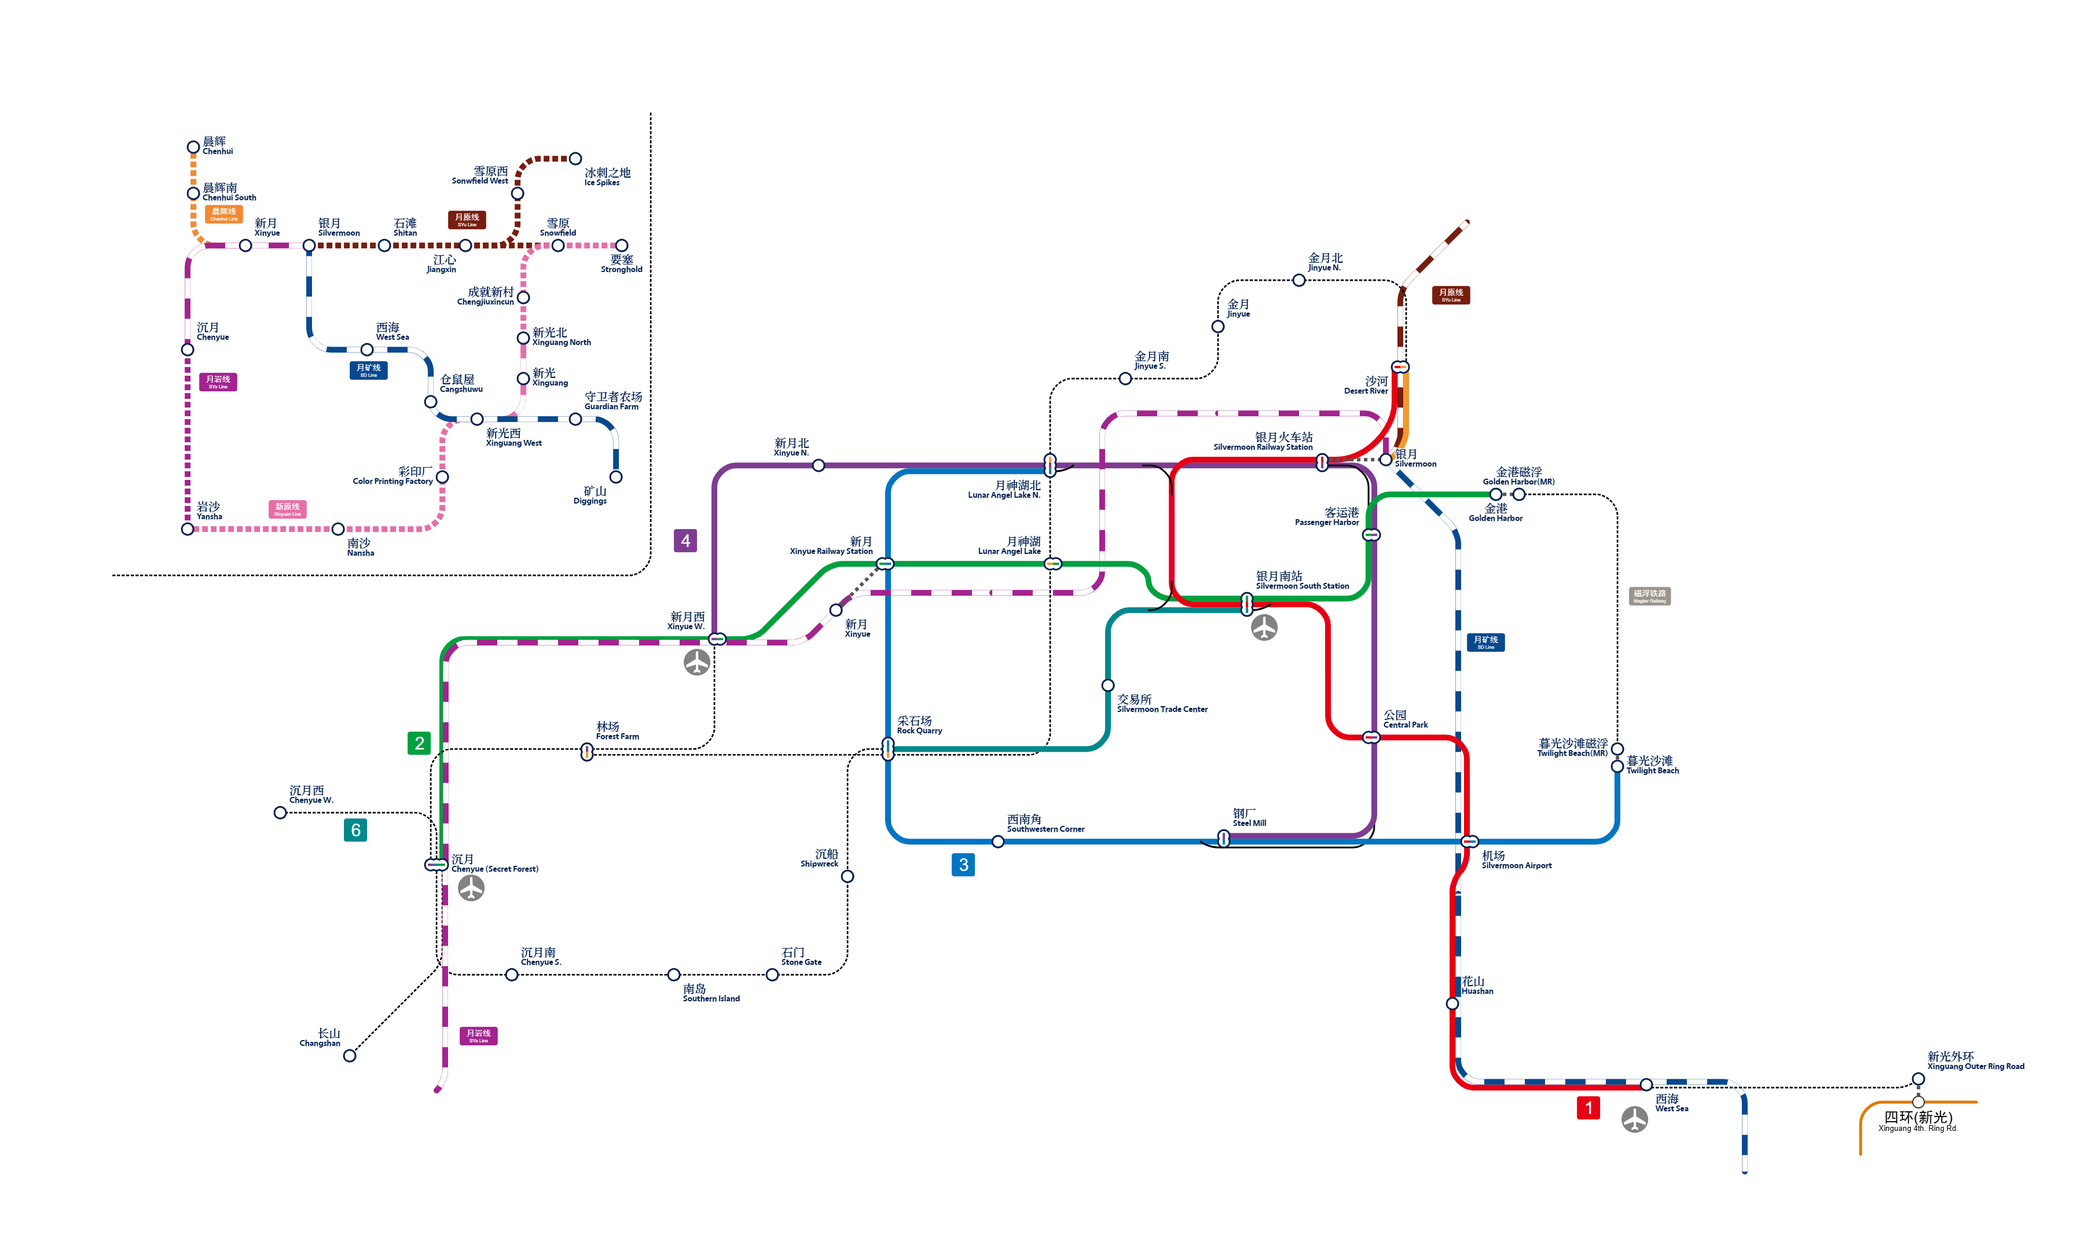
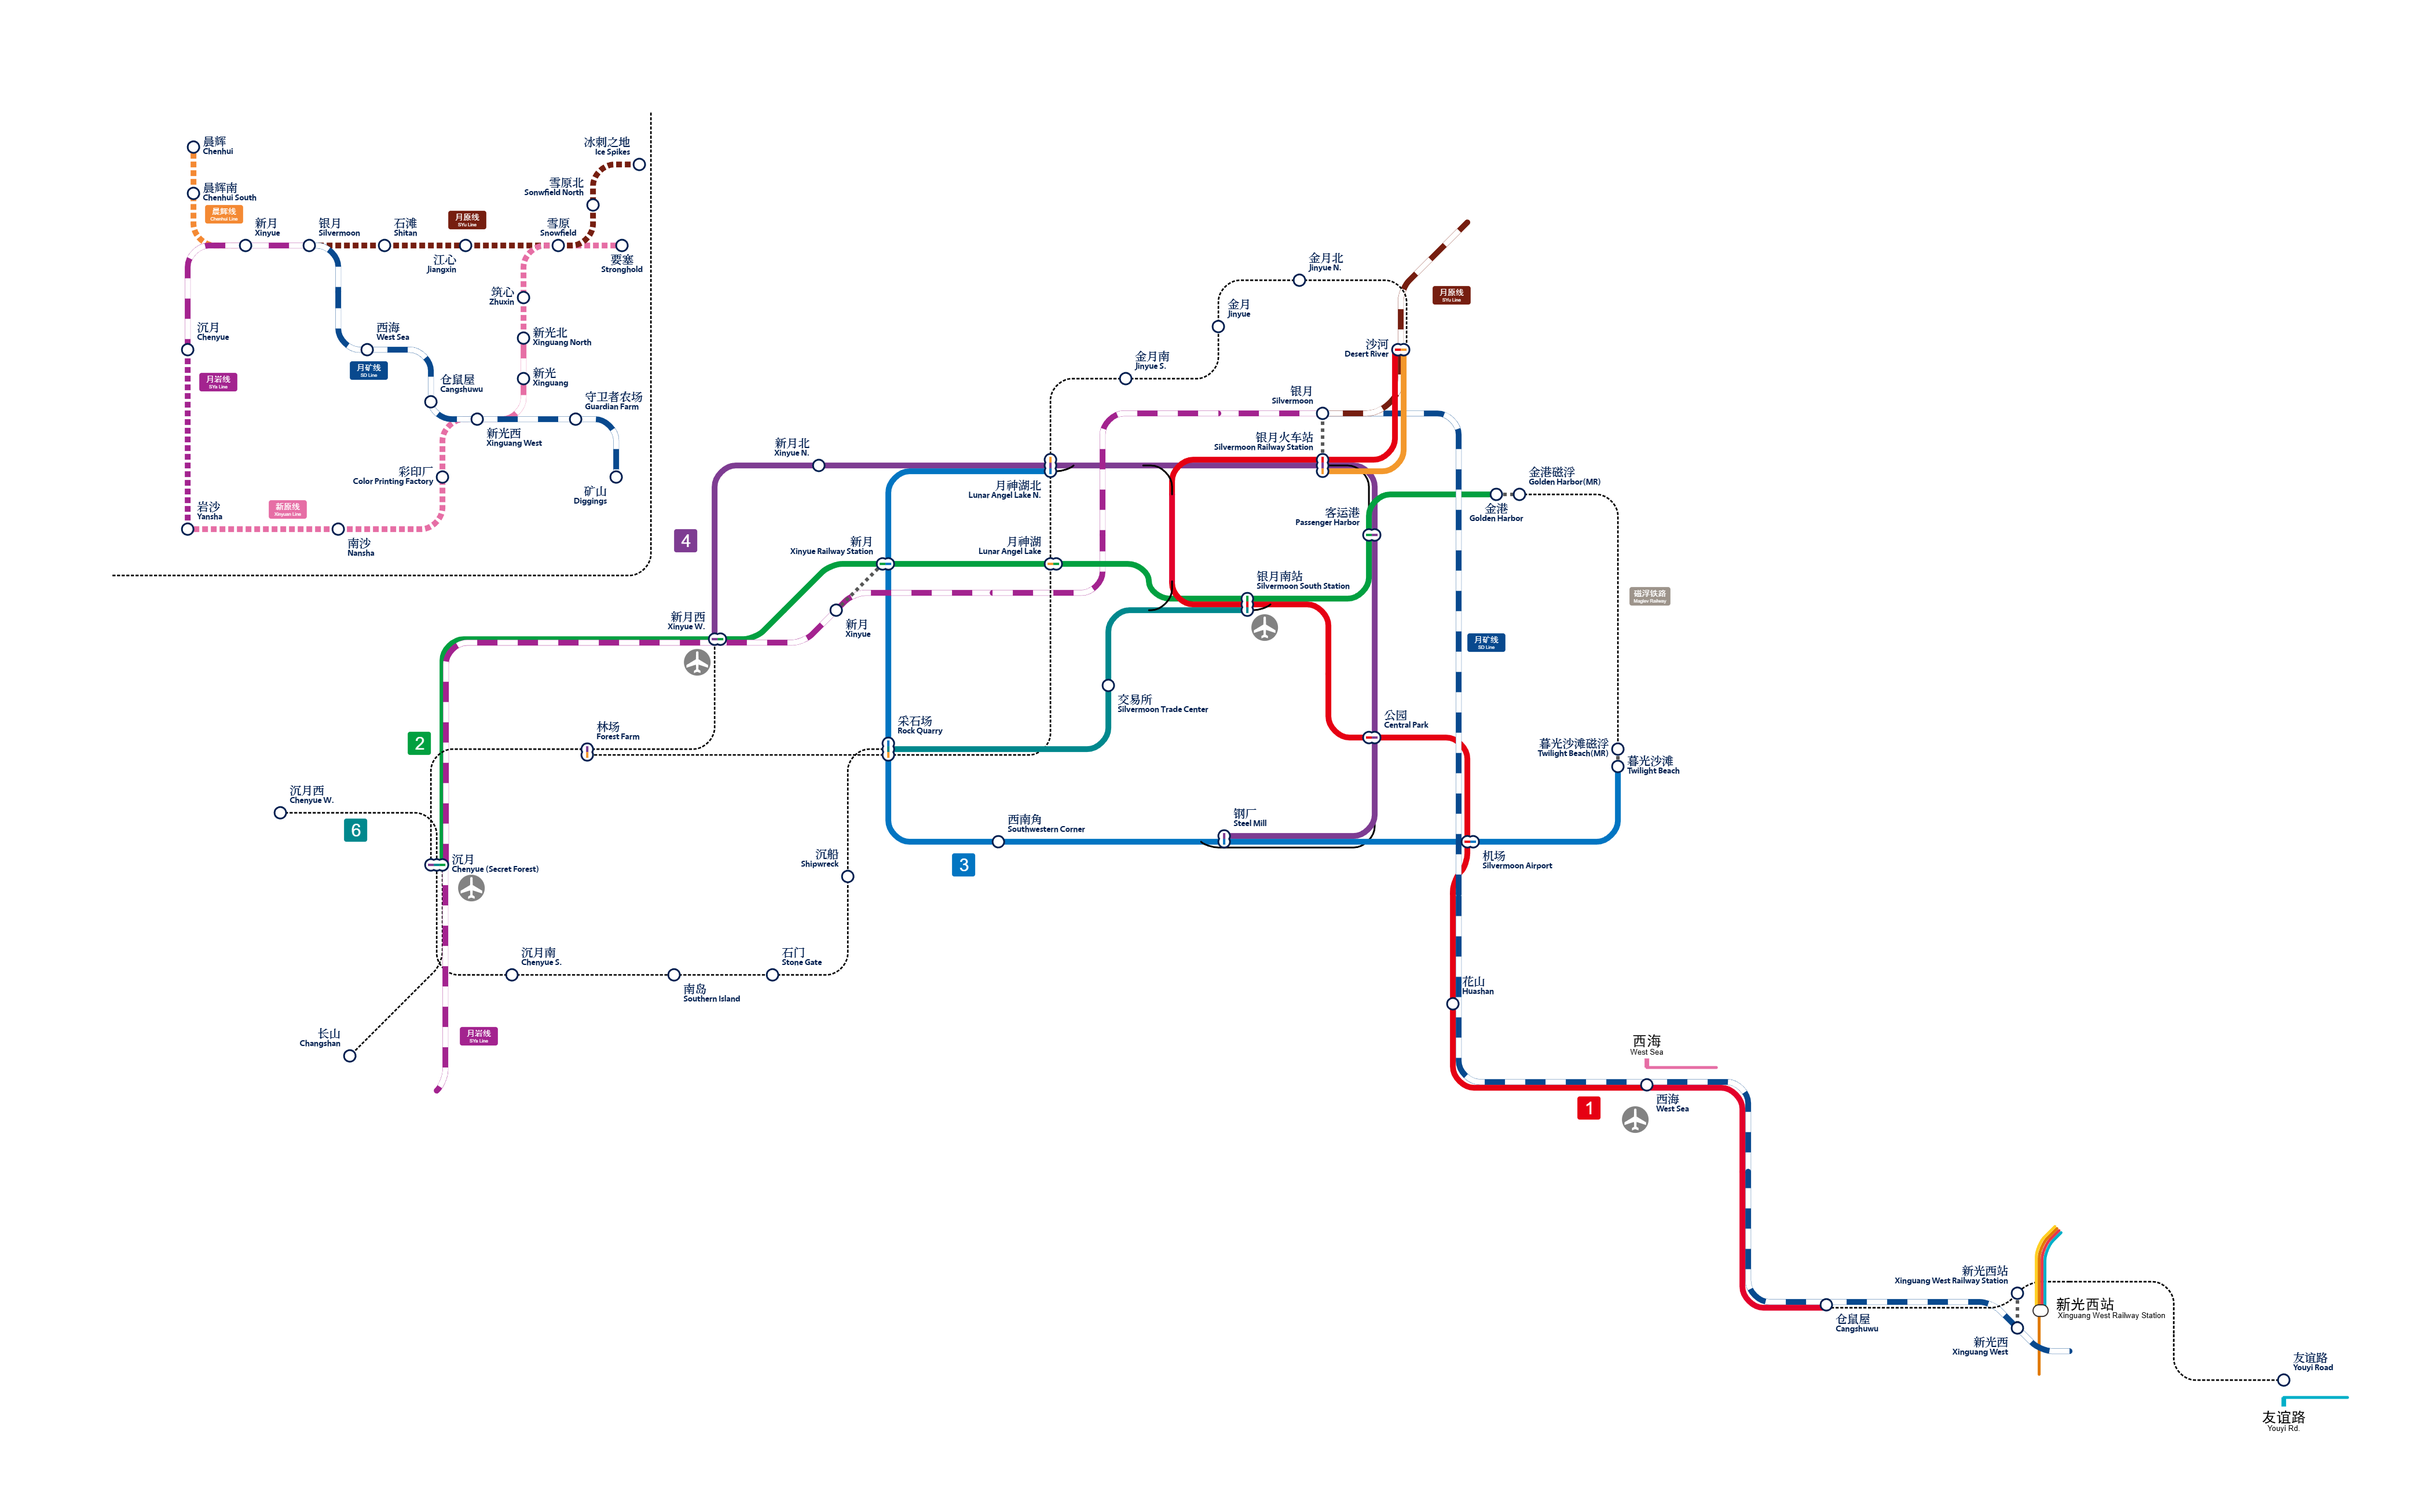
重发被撤回的非static更改

diff --git a/docs/servers/SurvivalIII/railway_transit/history.md b/docs/servers/SurvivalIII/railway_transit/history.md
@@ -73,4 +73,6 @@ description: 了解主世界铁路庞大网络的过往。
 | 24.12.13 | 3 号线 | 通工路 - 昌兴 开通运营 | +281 | 15238 |
 | 24.12.20 | 新光地铁 | 火药塔站封站改造 | — | — |
 | 24.12.26 | 新光地铁 | 火药塔站重新开放，1 号线、4 号线改线 | -104 | 15134 |
+| 25.01.08 | 银月 1 号线 | 西海 - 仓鼠屋 开通运营 | 待后续计算 | 待后续计算 |
 | 25.01.21 | 4 号线 | 火药塔 - 四环 开通运营 | +489 | 15623 |
+| 25.02.05 | 城际铁路 | 银月站配线改造完毕，月矿线、月原线与月岩线直通运营 | 待后续计算 | 待后续计算 | 

diff --git a/docs/servers/SurvivalIII/industries/witch_farm.md b/docs/servers/SurvivalIII/industries/witch_farm.md
@@ -42,4 +42,4 @@ description: 产出由女巫掉落的诸多类型的战利品。
 
 在岩沙事实上是意外地发现了一座女巫小屋。
 
-在 MC 1.21 更新后，火药塔处于不可用状态。为缓解无法量产火药的尴尬情况，地雷等人在此建设了一座女巫塔。
+在 MC 1.21 更新后，火药塔曾一度处于不可用状态。为缓解无法量产火药的尴尬情况，地雷等人在此建设了一座女巫塔。

diff --git a/docs/servers/SurvivalIII/developing_areas/silvermoon/summary.md b/docs/servers/SurvivalIII/developing_areas/silvermoon/summary.md
@@ -47,7 +47,9 @@ description: 银月的基本定位与概述。
 
 ### 银月火车站
 
-1、2 站台为港湾式站台，分别为月矿线和规划中月原线的终点站；3、4 站台为侧式站台，为建设中的月岩线的终点站。
+位于皓月区北侧，国铁场为 2 台 2 线的侧式站台，是月原线、月矿线和月岩线的始发终到站。
+
+南侧有地铁5号线专用的单线站台。
 
 ### 银月客运港
 

diff --git a/docs/servers/SurvivalIII/developing_areas/xinguang/muhui_district.md b/docs/servers/SurvivalIII/developing_areas/xinguang/muhui_district.md
@@ -23,7 +23,7 @@ description: 新光林场、陵园所在地。
 
 顾名思义，就是**大片的经济林种植区**，新光所需的大多数木材都可在此获取。
 
-不过，目前尚未引种下界的两种可称为树木的大型菌，未来有引种计划。
+由于林场规模有限，下界的两种大型菌被种植于林场北侧的独立区域。
 
 *@巴豆 在这里写了大量的森林防火宣传标语。*
 

diff --git a/docs/tools/urls/frequently_used.md b/docs/tools/urls/frequently_used.md
@@ -37,4 +37,4 @@
 - [GitHub](https://github.com/ff98sha/mclangcn)
 - [KLPBBS](https://klpbbs.com/thread-137794-1-1.html)
 - [MineBBS](https://www.minebbs.com/resources/8447/)
-- NetEase
+- [NetEase](https://mc.163.com)
